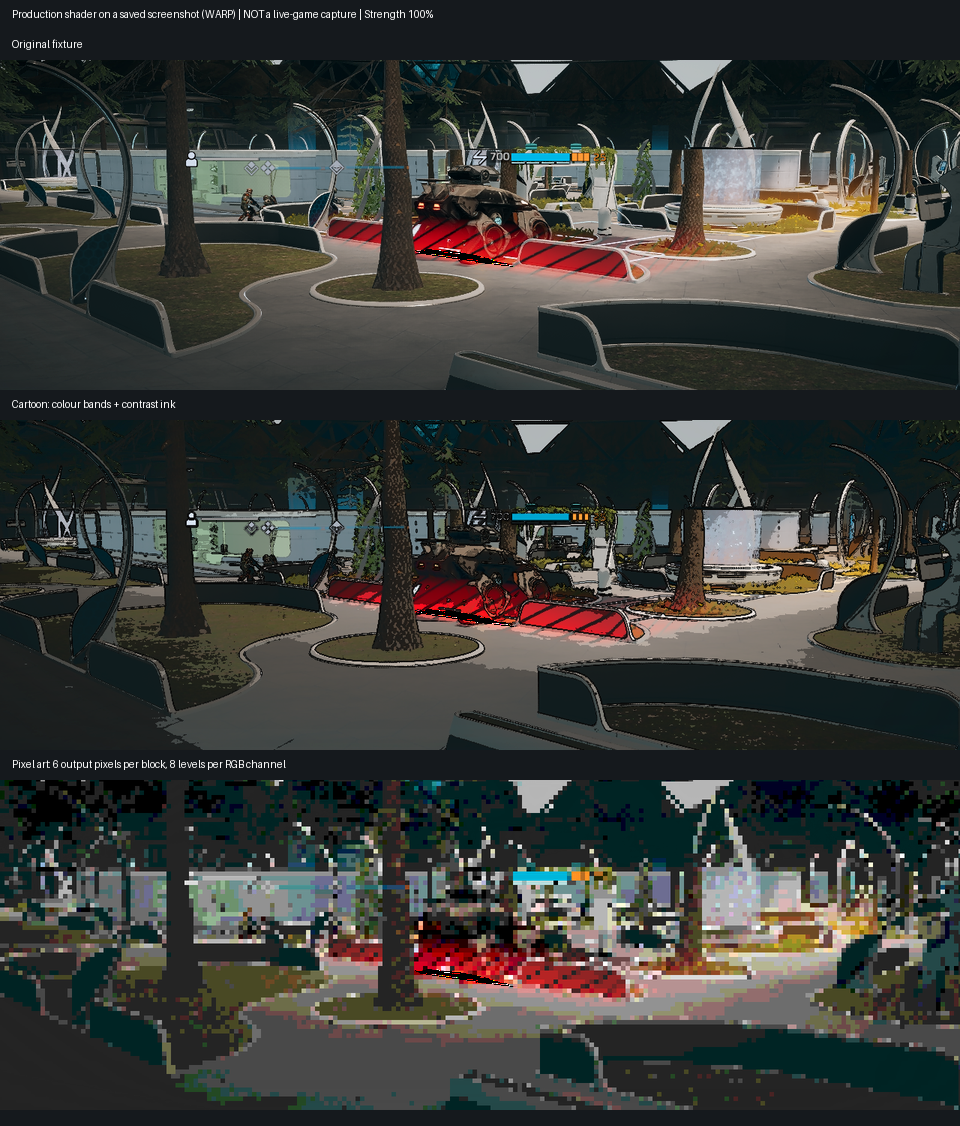
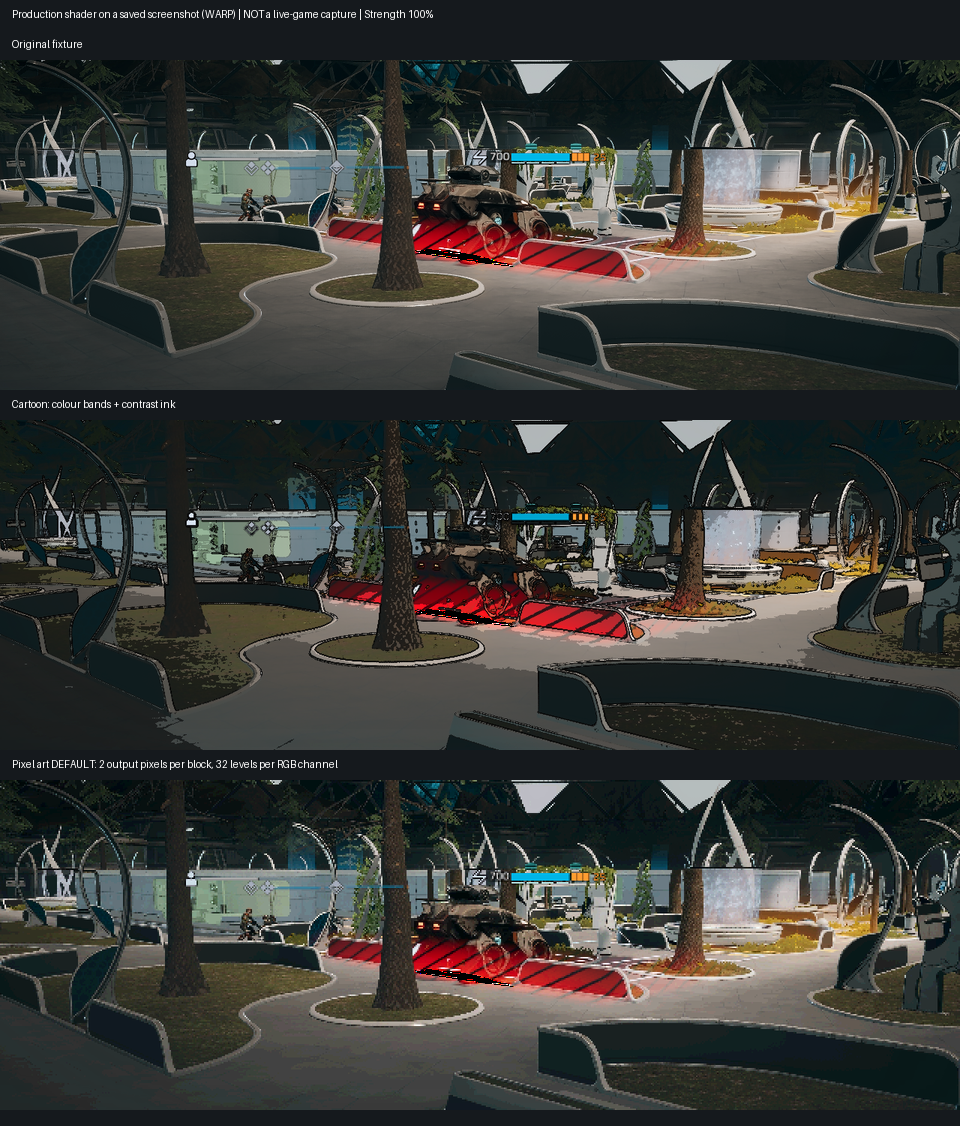
fix: preserve detail in default pixel art

Changed region(s): [[0.0, 0.6528, 1.0, 0.9947], [0.1562, 0.9014, 0.1875, 0.9636], [0.6875, 0.6838, 0.7188, 0.7149]]

diff --git a/docs/scene-stylization/pixel-readability.py b/docs/scene-stylization/pixel-readability.py
@@ -1,0 +1,57 @@
+"""Matched normal-framing PixelArt comparison; 1440p input is explicitly a display-scale simulation."""
+import argparse
+from array import array
+import hashlib
+import json
+from pathlib import Path
+import subprocess
+from PIL import Image, ImageDraw
+
+p = argparse.ArgumentParser()
+p.add_argument("source", type=Path)
+p.add_argument("probe", type=Path)
+p.add_argument("output", type=Path)
+p.add_argument("--scratch", type=Path, required=True)
+args = p.parse_args()
+args.scratch.mkdir(parents=True, exist_ok=True)
+args.output.mkdir(parents=True, exist_ok=True)
+source = Image.open(args.source).convert("RGBA")
+assert source.size == (1280, 720), "This comparison records a specific 720p fixture"
+manifest = {"source": str(args.source.resolve()), "source_sha256": hashlib.sha256(args.source.read_bytes()).hexdigest(),
+            "probe_sha256": hashlib.sha256(args.probe.read_bytes()).hexdigest(), "default_block": 2,
+            "palette_levels_per_channel": 32, "automatic_resolution_scaling": False,
+            "limits": "Offline production HLSL/WARP. All screenshot UI is baked in. 1440p is an enlarged input, not a native game capture.",
+            "cases": []}
+for width, height in ((1280, 720), (2560, 1440)):
+    image = source if width == 1280 else source.resize((width, height), Image.Resampling.BILINEAR)
+    raw = args.scratch / f"{width}-input.rgba32f"
+    with raw.open("wb") as stream:
+        array("f", (v / 255 for v in image.tobytes())).tofile(stream)
+    variants = [image]
+    for block in (2, 3, 4):
+        target = args.scratch / f"{width}-block-{block}.rgba32f"
+        subprocess.run([str(args.probe), str(raw), str(width), str(height), "2", str(block), str(target)], check=True)
+        values = array("f")
+        with target.open("rb") as stream:
+            values.fromfile(stream, width * height * 4)
+        result = Image.frombytes("RGBA", image.size, bytes(max(0, min(255, round(v * 255))) for v in values))
+        result.save(args.scratch / f"{width}-block-{block}.png")
+        variants.append(result)
+    # Full gameplay framing in every panel; the 720p sheet is pixel-for-pixel, no crop or magnification.
+    display_w = 1280
+    display_h = 720
+    sheet = Image.new("RGB", (display_w * 2, (display_h + 30) * 2 + 40), "#15191d")
+    draw = ImageDraw.Draw(sheet)
+    caption = "Actual 1280x720 saved fixture; panels shown at 1:1" if width == 1280 else "2560x1440 DISPLAY-SCALE SIMULATION (enlarged 720p input); panels fit at 50%"
+    draw.text((12, 8), caption + " | Offline production shader, not live gameplay", fill="white")
+    for index, (label, variant) in enumerate(zip(("Original", "DEFAULT: 2 actual output pixels", "Optional: 3 actual output pixels", "Optional: 4 actual output pixels"), variants)):
+        x, y = index % 2 * display_w, 40 + index // 2 * (display_h + 30)
+        draw.text((x + 12, y), label + " | no extra outlines", fill="white")
+        fitted = variant if width == display_w else variant.resize((display_w, display_h), Image.Resampling.LANCZOS)
+        sheet.paste(fitted.convert("RGB"), (x, y + 24))
+    name = f"pixel-readability-{height}p.png"
+    sheet.save(args.output / name)
+    manifest["cases"].append({"size": [width, height], "kind": "original fixture" if width == 1280 else "display-scale simulation",
+                              "blocks": [2, 3, 4], "sheet": name})
+(args.output / "pixel-readability.json").write_text(json.dumps(manifest, indent=2) + "\n", encoding="utf-8")
+print("PASS: 720p native-fixture and 1440p display-scale comparisons; Off/2/3/4 blocks, normal framing")

diff --git a/src/DlssConfig.cs b/src/DlssConfig.cs
@@ -50,8 +50,8 @@ namespace Renderforge
         public SceneStyle SceneStyle = SceneStyle.Off;
         [ConfigField("Style strength", "0 = original image, 100 = full style. Applied live.")]
         public int SceneStyleStrength = 100;
-        [ConfigField("Pixel block size", "PixelArt only: 2 to 16 output pixels per block.")]
-        public int PixelSize = 6;
+        [ConfigField("Pixel block size", "PixelArt: default 2 actual output pixels for readability. Increase up to 16 for a stronger effect.")]
+        public int PixelSize = 2;
         [ConfigField("Show DLSS in Graphics options")]
         public bool ShowInGraphicsOptions = true;
         // Pressed together with Ctrl+Alt (fixed chord, like ContentTool's fit bench Ctrl+Alt+B). No F-keys/Insert/End:
@@ -101,7 +101,7 @@ namespace Renderforge
             { nameof(LutStrength), new[] { "Сила LUT", "0 = оригинал … 100 = полный эффект. Применяется сразу." } },
             { nameof(SceneStyle), new[] { "Стиль сцены", "Выкл, мультфильм или пиксель-арт. Стилизация кодом после реконструкции." } },
             { nameof(SceneStyleStrength), new[] { "Сила стилизации", "0 = оригинал, 100 = полный эффект. Применяется сразу." } },
-            { nameof(PixelSize), new[] { "Размер пикселя", "Для пиксель-арта: от 2 до 16 пикселей экрана в блоке." } },
+            { nameof(PixelSize), new[] { "Размер пикселя", "По умолчанию 2 пикселя экрана: мелкие детали остаются различимы. До 16 для более сильного эффекта." } },
             { nameof(ShowInGraphicsOptions), new[] { "Показывать DLSS в настройках графики", null } },
             { nameof(ToggleHotkey), new[] { "Клавиша DLSS вкл/выкл (с Ctrl+Alt)", "Нажимайте Ctrl+Alt+<клавиша>" } },
             { nameof(OverlayHotkey), new[] { "Клавиша оверлея (с Ctrl+Alt)", "Нажимайте Ctrl+Alt+<клавиша>" } },

diff --git a/docs/scene-stylization/make-preview.py b/docs/scene-stylization/make-preview.py
@@ -24,7 +24,7 @@ array("f", (v / 255 for v in original.tobytes())).tofile(raw.open("wb"))
 images = [original]
 for mode in (1, 2):
     target = args.scratch / f"style-{mode}.rgba32f"
-    subprocess.run([str(args.probe), str(raw), str(width), str(height), str(mode), "6", str(target)], check=True)
+    subprocess.run([str(args.probe), str(raw), str(width), str(height), str(mode), "2", str(target)], check=True)
     values = array("f")
     with target.open("rb") as stream:
         values.fromfile(stream, width * height * 4)
@@ -37,7 +37,7 @@ preview_height = round((crop[3] - crop[1]) * preview_width / width)
 sheet = Image.new("RGB", (preview_width, (preview_height + 30) * 3 + 46), "#15191d")
 draw = ImageDraw.Draw(sheet)
 draw.text((12, 8), "Production shader on a saved screenshot (WARP) | NOT a live-game capture | Strength 100%", fill="white")
-labels = ("Original fixture", "Cartoon: colour bands + contrast ink", "Pixel art: 6 output pixels per block, 8 levels per RGB channel")
+labels = ("Original fixture", "Cartoon: colour bands + contrast ink", "Pixel art DEFAULT: 2 output pixels per block, 32 levels per RGB channel")
 for index, (label, img) in enumerate(zip(labels, images)):
     y = 38 + index * (preview_height + 30)
     draw.text((12, y), label, fill="white")
@@ -47,7 +47,7 @@ manifest = {
     "source": str(args.source.resolve()), "source_sha256": hashlib.sha256(args.source.read_bytes()).hexdigest(),
     "source_size": [width, height], "probe": str(args.probe.resolve()),
     "probe_sha256": hashlib.sha256(args.probe.read_bytes()).hexdigest(),
-    "modes": labels, "strength": 1, "pixel_size": 6, "crop": crop,
+    "modes": labels, "strength": 1, "pixel_size": 2, "crop": crop,
     "method": "Actual compiled production HLSL, D3D11 WARP, display RGB; image display resized after shader evaluation.",
     "limits": "Saved screenshot includes baked UI markers. No live UI exclusion, motion, FG, NR or performance proof."
 }

diff --git a/native/probe/scene_style_probe.cpp b/native/probe/scene_style_probe.cpp
@@ -138,10 +138,16 @@ int main(int argc, char** argv)
             for (unsigned y = 0; y < h; ++y) for (unsigned x = 0; x < w; ++x) for (int c = 0; c < 3; ++c) {
                 const auto value = pixel[y*w+x][c];
                 Require(value == pixel[(y/block*block)*w + x/block*block][c], "Pixel grid is not block-uniform");
-                Require(std::abs(value*7-std::round(value*7)) < 2e-6f, "Pixel palette is not quantized");
+                Require(std::abs(value*31-std::round(value*31)) < 4e-6f, "Pixel palette is not quantized");
+                if (block == 2) {
+                    const unsigned sx = (x / 2 * 2 + 1 < w) ? x / 2 * 2 + 1 : w - 1;
+                    const unsigned sy = (y / 2 * 2 + 1 < h) ? y / 2 * 2 + 1 : h - 1;
+                    Require(std::abs(value - input[sy*w+sx][c]) <= 0.5f / 31 + 1e-6f,
+                        "Default pixel palette lost too much sampled color detail");
+                }
             }
         }
-        printf("PASS: production HLSL on D3D11 WARP; 2 styles x gamma/linear; exact Off/zero, alpha, finite output, blend, tiny/odd sizes; 15 pixel grids and palettes; original Off packing.\n");
+        printf("PASS: production HLSL on D3D11 WARP; 2 styles x gamma/linear; exact Off/zero, alpha, finite output, blend, tiny/odd sizes; 15 pixel grids, 32-level palettes, default color error <=1/62; original Off packing.\n");
         return 0;
     }
     catch (const std::exception& e) { fprintf(stderr, "FAIL: %s\n", e.what()); return 1; }

diff --git a/src/SceneStylePanel.cs b/src/SceneStylePanel.cs
@@ -92,8 +92,8 @@ namespace Renderforge
             {
                 GraphicsPanel.SetRaw(picker.CurrentItem, picker.CurrentItemText, Labels[index]);
                 GraphicsPanel.Tip(picker.CentralButton.gameObject, DlssConfig.Loc(
-                    "Cartoon: colour bands and contrast outlines. Pixel art: block sampling and a limited palette. Scene only; no downloaded textures.",
-                    "Мультфильм: ступени цвета и контрастные контуры. Пиксель-арт: крупные пиксели и ограниченная палитра. Без загружаемых текстур."));
+                    "Cartoon: colour bands and contrast outlines. Pixel art: fine 2-pixel blocks by default, a gentle palette reduction, no extra outlines. Increase block size for a stronger effect.",
+                    "Мультфильм: ступени цвета и контрастные контуры. Пиксель-арт: мелкие блоки по 2 пикселя, мягкое сокращение палитры, без дополнительных контуров. Размер блока можно увеличить."));
             }
             SyncSlider(strength, strengthValue, index != 0, Mathf.Clamp(cfg.SceneStyleStrength, 0, 100), "%");
             SyncSlider(pixelSize, pixelValue, index == 2, Mathf.Clamp(cfg.PixelSize, 2, 16), " px");

diff --git a/src/RenderforgeMod.cs b/src/RenderforgeMod.cs
@@ -520,7 +520,7 @@ namespace Renderforge
         public static string GetStatus() => "provider=" + Upscalers.Running + " lut=" + (Instance?.Cfg?.Lut ?? LutPreset.Off) + " lutStrength=" + (Instance?.Cfg?.LutStrength ?? 0) + " unity=" + Application.unityVersion + " mvJittered=" + Diagnostics.MvJittered + " d3d12SrgbViews=" + Diagnostics.D3D12SrgbViews + " d3d12ColorDesc=" + Diagnostics.D3D12ColorDesc + " d3d12HalfColor=" + Diagnostics.D3D12HalfColor + JitterKnobs() + " "
                                           + (DlssDriver.Instance?.Status ?? ("no driver; available=" + Available + " init=" + InitCode))
                                           + " sceneStyle=" + (Instance?.Cfg?.SceneStyle ?? SceneStyle.Off)
-                                          + " styleStrength=" + (Instance?.Cfg?.SceneStyleStrength ?? 0) + " pixelSize=" + (Instance?.Cfg?.PixelSize ?? 6)
+                                          + " styleStrength=" + (Instance?.Cfg?.SceneStyleStrength ?? 0) + " pixelSize=" + (Instance?.Cfg?.PixelSize ?? 2)
                                           + " | fg=" + FrameGen.Status();
 
         private static string Reason(int code)

diff --git a/native/SceneStyle.h b/native/SceneStyle.h
@@ -26,7 +26,8 @@ float3 Stylize(int2 p, float3 original) {
     if (styleMode == 2) {
         int block = int(max(pixelSize, 2u));
         int2 q = (p / block) * block + block / 2;
-        c = floor(StyleSample(q) * 7.0 + 0.5) / 7.0;
+        // Retain small material/lighting differences; the grid supplies the style, not a coarse eight-level palette.
+        c = floor(StyleSample(q) * 31.0 + 0.5) / 31.0;
     } else {
         // A small cross smooths fine texture before banding. Ink uses the original local contrast.
         int radius = max(1, int(H / 720));

diff --git a/docs/2026-09-05-scene-stylization.md b/docs/2026-09-05-scene-stylization.md
@@ -1,10 +1,10 @@
 # Code-only scene stylization
 
-- Default: `SceneStyle=Off`, `SceneStyleStrength=100`, `PixelSize=6`.
+- Default: `SceneStyle=Off`, `SceneStyleStrength=100`, `PixelSize=2`.
 - Graphics options: Scene style (Off / Cartoon / Pixel art), Style strength (0–100), Pixel block size (2–16 output pixels).
-- `Renderforge.RenderforgeMod.SetSceneStyle("Cartoon", 100, 6)` is the PPCLI control; `Off` restores the original post path.
+- `Renderforge.RenderforgeMod.SetSceneStyle("PixelArt", 100, 2)` is the PPCLI control; `Off` restores the original post path.
 - Cartoon uses five luminance bands, a small texture-smoothing cross and dark contrast outlines. These are color edges, not geometry/depth/normal edges. It is a cartoon post filter, not a replacement cel material.
-- Pixel art samples the center of each output-sized block and quantizes each display RGB channel to eight levels. Its screen grid is stable, but moving objects cross the grid; it is not an authored pixel-art animation system.
+- Pixel art samples the center of each output-sized block and quantizes each display RGB channel to 32 levels. The default is two actual output pixels at both 1280×720 and 2560×1440, with no automatic resolution multiplier. Larger blocks remain adjustable up to 16. No extra outlines are applied. Its screen grid is stable, but moving objects cross the grid; it is not an authored pixel-art animation system.
 - Both share the existing post-reconstruction compute pass with color grading. Pixel art replaces the sharpening contribution inside the styled portion; the strength blend still uses the normal sharpened input. LUT grading follows the style.
 - The existing scene output is processed before normal overlay UI. World-space UI or UI already baked into the camera image receives the filter. Verify the real game's UI with the runtime plan below.
 - No generated faces, texture files, model weights, new DLL dependencies or downloads. Geometry, silhouette, animation and face identity stay unchanged. True low-poly geometry and depth/normal cel outlines are outside this change.
@@ -19,10 +19,19 @@
 - The probe caught full-strength `lerp` cancellation producing tiny differences inside a pixel block. Full strength now returns the styled value directly; block uniformity passes exactly even with sharpening enabled.
 - `D:\Renderforge-work\scene-style\native\Release\lut_probe.exe`: **PASS** all nine production LUTs: 4,913-color cube, 1,025-step ramps, alpha, blend endpoints, B&W channel equality, floating-point overbrights.
 - [Same-input contact sheet](scene-stylization/contact-sheet.png) runs the actual production shader against a saved screenshot using WARP. It is not a new in-game capture. [Manifest](scene-stylization/contact-sheet.json) records input/probe hashes, crop and limitations; [script](scene-stylization/make-preview.py) reproduces it. Screenshot-baked markers are filtered in this fixture; UI isolation requires the runtime check below.
-- Native DLL: **237,568 bytes**, versus **235,008 bytes** at the preceding LUT commit (**+2,560 bytes**). Managed DLL: **146,432 bytes**. No model/texture payload is added to the mod; the 1.18 MB comparison PNG lives only in docs.
[1 lines of base64/hex data omitted]
+- Native DLL: **237,568 bytes**, versus **235,008 bytes** at the preceding LUT commit (**+2,560 bytes**). Managed DLL: **146,944 bytes**. No model/texture payload is added to the mod; all comparison PNGs live only in docs.
[1 lines of base64/hex data omitted]
 - The running game was not controlled, restarted or deployed to. Live temporal stability, FG interaction, UI layout and performance remain unverified.
 - Integration audit also fixed the managed frame submission's old LUT upper bound (`4` → `LutPreset.VintageSepia`), so all nine registered LUTs reach native unchanged. The final managed hash above includes that fix; the Release rebuild passed with 0 warnings/errors.
+
+## Pixel readability refinement
+
+- The first six-pixel/eight-level example was too coarse for ordinary play. The new two-pixel/32-level default favors the small soldier silhouette, cover rims and ground detail; three and four pixels remain optional stronger looks. Explicitly saved block-size preferences are not overwritten.
+- [720p normal-framing comparison](scene-stylization/pixel-readability-720p.png) shows the verified 1280×720 fixture pixel-for-pixel: original, default two pixels, optional three and four pixels. The small soldier and cover edges remain more recognizable at two than at three/four in this fixture. This is visual inspection of one static image, not a general gameplay-readability guarantee.
+- [1440p display-scale comparison](scene-stylization/pixel-readability-1440p.png) runs the same shader at 2560×1440 on a bilinearly enlarged 720p source, then fits panels to 50%. It verifies block scale and does not pretend to contain native 1440p game detail. At 1440p the fixed two-pixel default is gentler relative to the same camera framing; no hidden scaling inflates it to six or more pixels.
+- [Reproduction script](scene-stylization/pixel-readability.py) and [manifest](scene-stylization/pixel-readability.json) record the exact source/probe hashes and simulation limits. All fixture UI is baked into the screenshot; it cannot prove live HUD exclusion.
+- Rebuilt native/managed Release and reran both probes: **PASS**. Pixel tests cover all 15 block sizes, exact block uniformity, 32-level palette membership and default quantization error ≤`1/62` per display channel relative to the selected source sample (not an error bound for spatial downsampling).
[1 lines of base64/hex data omitted]
 
 ## Runtime verification required
 
